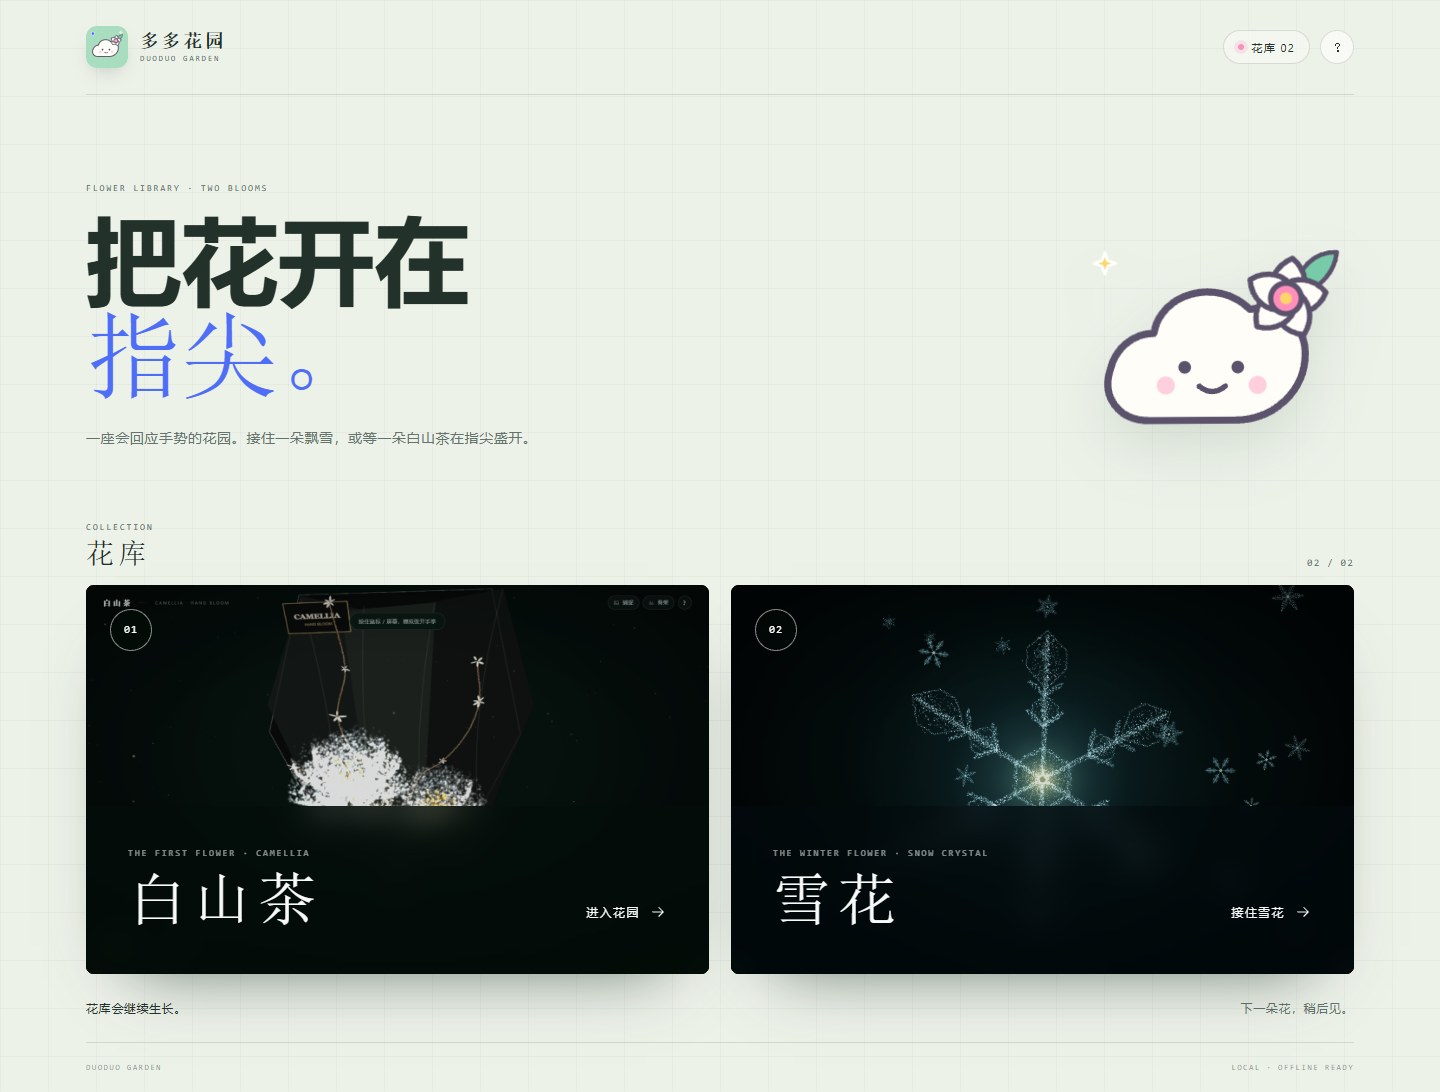
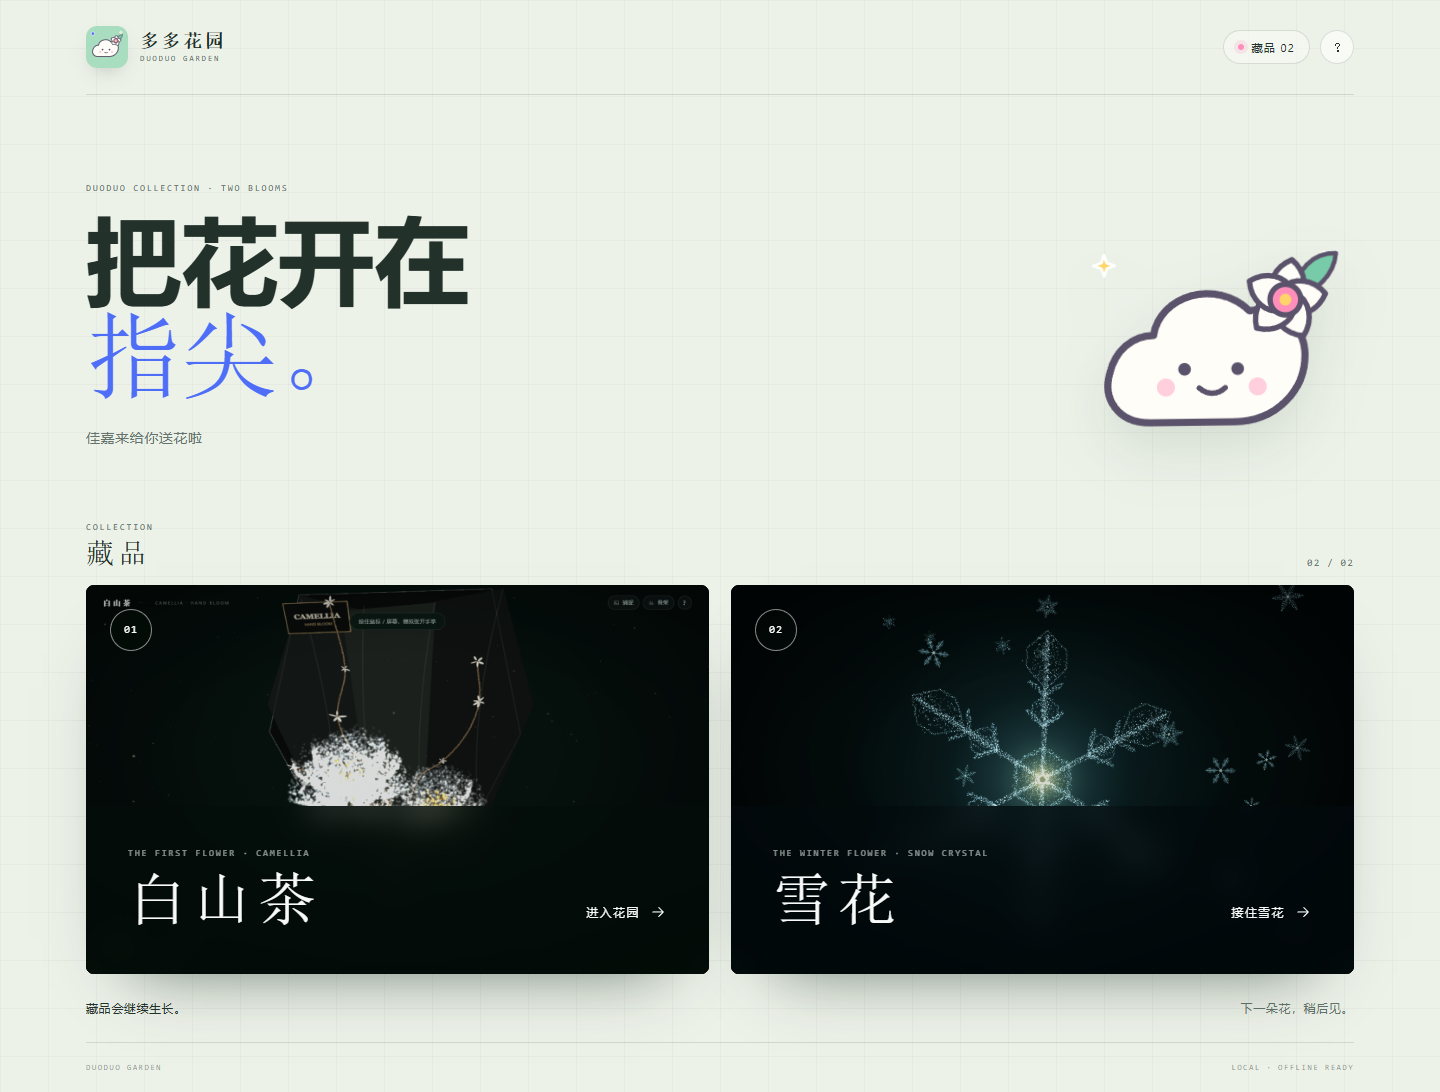
feat: show collection items in two mobile columns

diff --git a/index.html b/index.html
@@ -26,7 +26,7 @@
       </span>
     </a>
     <div class="header-meta">
-      <span class="library-count"><i></i>花库 02</span>
+      <span class="library-count"><i></i>藏品 02</span>
       <button class="info-button" id="info-button" type="button" aria-label="关于多多花园" title="关于多多花园">?</button>
     </div>
   </header>
@@ -34,7 +34,7 @@
   <main>
     <section class="garden-heading" aria-labelledby="garden-title">
       <div class="heading-copy">
-        <p class="eyebrow">FLOWER LIBRARY · TWO BLOOMS</p>
+        <p class="eyebrow">DUODUO COLLECTION · TWO BLOOMS</p>
         <h1 id="garden-title">把花开在<br><em>指尖。</em></h1>
         <p class="garden-lede">佳嘉来给你送花啦</p>
       </div>
@@ -45,7 +45,7 @@
       <header class="section-heading">
         <div>
           <p>COLLECTION</p>
-          <h2 id="library-title">花库</h2>
+          <h2 id="library-title">藏品</h2>
         </div>
         <span>02 / 02</span>
       </header>
@@ -90,8 +90,8 @@
       </div>
     </section>
 
-    <section class="garden-note" aria-label="花库状态">
-      <p>花库会继续生长。</p>
+    <section class="garden-note" aria-label="藏品状态">
+      <p>藏品会继续生长。</p>
       <span>下一朵花，稍后见。</span>
     </section>
   </main>
@@ -107,7 +107,7 @@
     <img src="./assets/icon.svg" alt="">
     <p class="eyebrow">DUODUO GARDEN</p>
     <h2>多多花园</h2>
-    <p>花库收录可以用手势唤醒的花。摄像头画面只在当前设备处理，不会上传。</p>
+    <p>藏品收录可以用手势唤醒的花。摄像头画面只在当前设备处理，不会上传。</p>
     <button type="submit">知道了</button>
   </form>
 </dialog>

diff --git a/garden.css b/garden.css
@@ -481,12 +481,14 @@ main {
   }
 
   .flower-grid {
-    grid-template-columns: 1fr;
+    grid-template-columns: repeat(2, minmax(0, 1fr));
+    gap: 12px;
   }
 
   .flower-feature {
-    aspect-ratio: 4 / 4.8;
-    min-height: 430px;
+    aspect-ratio: 3 / 4.7;
+    min-height: 0;
+    max-height: 390px;
   }
 
   .flower-feature > img {
@@ -500,18 +502,45 @@ main {
   .flower-caption {
     align-items: flex-start;
     flex-direction: column;
-    padding: 24px;
+    gap: 10px;
+    padding: 16px 13px;
+  }
+
+  .flower-caption p {
+    font-size: 7px;
+    line-height: 1.55;
+    letter-spacing: 0.1em;
+    overflow-wrap: anywhere;
   }
 
   .flower-caption h3 {
-    font-size: 42px;
+    margin-top: 6px;
+    font-size: clamp(26px, 8vw, 36px);
+    letter-spacing: 0.08em;
+  }
+
+  .flower-index {
+    top: 12px;
+    left: 12px;
+    width: 32px;
+    height: 32px;
+    font-size: 9px;
   }
 
   .enter-flower {
     width: 100%;
     justify-content: space-between;
+    gap: 4px;
+    min-height: 30px;
     border-top: 1px solid rgba(255, 255, 255, 0.18);
-    padding-top: 14px;
+    padding-top: 9px;
+    font-size: 10px;
+    letter-spacing: 0.08em;
+  }
+
+  .enter-flower svg {
+    width: 15px;
+    height: 15px;
   }
 
   .garden-note {
@@ -535,9 +564,6 @@ main {
     height: 32px;
   }
 
-  .flower-feature {
-    min-height: 410px;
-  }
 }
 
 @media (prefers-reduced-motion: reduce) {

diff --git a/sw.js b/sw.js
@@ -1,5 +1,5 @@
 /* 修改页面或资源后同步提升 CACHE 版本。 */
-const CACHE = 'duoduo-garden-v12';
+const CACHE = 'duoduo-garden-v13';
 const ASSETS = [
   './',
   './index.html',

diff --git a/HANDOFF.md b/HANDOFF.md
@@ -5,7 +5,7 @@
 
 ## 一、这是什么
 
-**多多花园** —— 以花库为根页面的手势花园 PWA，当前收录「白山茶」与「雪花」两朵花：
+**多多花园** —— 以藏品为根页面的手势花园 PWA，当前收录「白山茶」与「雪花」两朵花：
 
 - 握拳 → 花束收拢待放；张开手掌 → 两朵主花一层层散开
 - 炭黑包装纸、细枝小白花、金色卡片与黑色缎带组成完整花束
@@ -14,7 +14,7 @@
 - 捕捉后其余未抓住的雪花继续飘落，只有被抓中的那一片淡出并转成大型晶花
 - 雪花捕捉阶段保留实时手部小窗，捕捉成功后继续用同一张手掌控制晶花
 - 右下角有实时「手部捕捉」小窗（镜像画面 + 21 点骨架 + 张开度）
-- 根页面是花库；两朵花各用独立体验页，可随时返回花库
+- 根页面是藏品；两朵花各用独立体验页，可随时返回藏品
 - 云朵吉祥物多多是固定品牌角色，耳边别着白山茶；图标与首页共用这一造型
 
 | 项目 | 地址 |
@@ -38,7 +38,7 @@ node tools/server.cjs    # → http://127.0.0.1:4182
 - 雪花完成“飘雪搜索 → 指针捕捉 → 按掌盛开 → 重置”全链路验收
 - 逐一验收四种雪花几何；抓中板晶后确认其余 19 片继续下落，绽放主体仍为板晶
 - Three.js 与 MediaPipe 从本地 `vendor/` 加载；假摄像头成功进入雪花实时模式并初始化手部模型
-- 花库 1440×900、390×844，雪花桌面与移动端均无横向溢出
+- 藏品 1440×900、390×844，雪花桌面与移动端均无横向溢出
 - 尚未验证：真人摄像头下的捕捉半径、真实手机设备、长时间运行稳定性
 
 离线软件渲染器（`tools/preview.mjs`）仍用于单朵粒子花的造型与曝光回归；
@@ -47,10 +47,10 @@ node tools/server.cjs    # → http://127.0.0.1:4182
 ## 三、代码地图
 
 ```
-index.html            花库首页：双花条目、两朵花入口与关于弹窗
+index.html            藏品首页：双花条目、两朵花入口与关于弹窗
 camellia.html         白山茶体验页：开场页 / HUD / 手部小窗 / 帮助
 snowflake.html        雪花体验页：飘雪搜索 / 手部捕捉 / 晶花控制
-garden.css            花库视觉与响应式布局
+garden.css            藏品视觉与响应式布局
 styles.css            白山茶体验界面（墨绿夜色 / 玉白 / 一点金）
 snowflake.css         雪花体验界面（墨青冬夜 / 冰白 / 暖金晶心）
 manifest.webmanifest  PWA 名称、图标与两朵花快捷入口
@@ -116,7 +116,7 @@ tools/
    不要改回实心 TubeGeometry。
    所有枝干必须共享同一个 `TIE_POINT` 并汇入缎带束口；主枝另一端进入花苞内部，
    装饰枝端点必须有可见小花，不能留下悬浮枝或空枝。
-9. **花库与体验页分离**：`index.html` 只负责花库和入口，不初始化 WebGL；每朵花使用独立体验页。
+9. **藏品与体验页分离**：`index.html` 只负责藏品和入口，不初始化 WebGL；每朵花使用独立体验页。
    当前两朵花分别使用 `camellia.html` 与 `snowflake.html`，不要把所有花重新堆进根页面。
 10. **PWA 核心资源预缓存、MediaPipe 独立缓存**：手部模型不进入安装阶段的 `cache.addAll`，
     由 `HandTracker` 下载到 `duoduo-hand-assets-v1` 并显示真实进度；SW 升级时不得删除该缓存。

diff --git a/README.md b/README.md
@@ -2,16 +2,16 @@
 
 **在线预览 → https://zyr123-star.github.io/duoduo-garden/**
 
-一座可以用手势唤醒的花园。花库当前收录两朵花：
+一座可以用手势唤醒的花园。藏品当前收录两朵花：
 
 - **白山茶**：握拳时整束花收拢待放，张开手掌后重瓣山茶一层层散开。
 - **雪花**：空中有羽状、板晶、叶瓣、密晶四种形态；先接住一片，捕捉成功后张开手掌，被抓中的那一型会从指尖放大盛开，其余雪花继续飘落。
 
-项目是独立静态 PWA：根页面是花库，两朵花各用独立体验页；Three.js、MediaPipe、图标和离线缓存都随项目携带。
+项目是独立静态 PWA：根页面是藏品，两朵花各用独立体验页；Three.js、MediaPipe、图标和离线缓存都随项目携带。
 
-云朵吉祥物多多会在花库迎接来客，她的耳边别着一朵白山茶；应用图标使用同一角色和柔绿色花园底。
+云朵吉祥物多多会在藏品页迎接来客，她的耳边别着一朵白山茶；应用图标使用同一角色和柔绿色花园底。
 
-![多多花园花库](docs/garden-home.png)
+![多多花园藏品](docs/garden-home.png)
 
 ![白山茶花束 · 手控盛放](docs/bouquet-preview.png)
 
@@ -223,10 +223,10 @@ float shade = 0.72 + 0.40 * diff + 0.20 * pow(1.0 - abs(wn.z), 2.0);
 
 ```
 duoduo-garden/
-├── index.html              花库首页
+├── index.html              藏品首页
 ├── camellia.html           白山茶手控体验页
 ├── snowflake.html          雪花捕捉与手控体验页
-├── garden.css              花库视觉与响应式布局
+├── garden.css              藏品视觉与响应式布局
 ├── styles.css              白山茶体验界面
 ├── snowflake.css           雪花体验界面
 ├── manifest.webmanifest    PWA 名称、图标和两朵花快捷入口

diff --git a/更新日志.md b/更新日志.md
@@ -1,5 +1,11 @@
 # 更新日志
 
+## 1.3.3
+
+- 手机端首页藏品改为两列并排，压缩编号、标题与入口按钮以适配 320px 小屏。
+- 首页“花库”统一改为“藏品”。
+- Service Worker 升级至 v13。
+
 ## 1.3.2
 
 - GitHub Pages 首次访问优先从 CDN 加载 Three.js，失败时自动回落本地文件。
